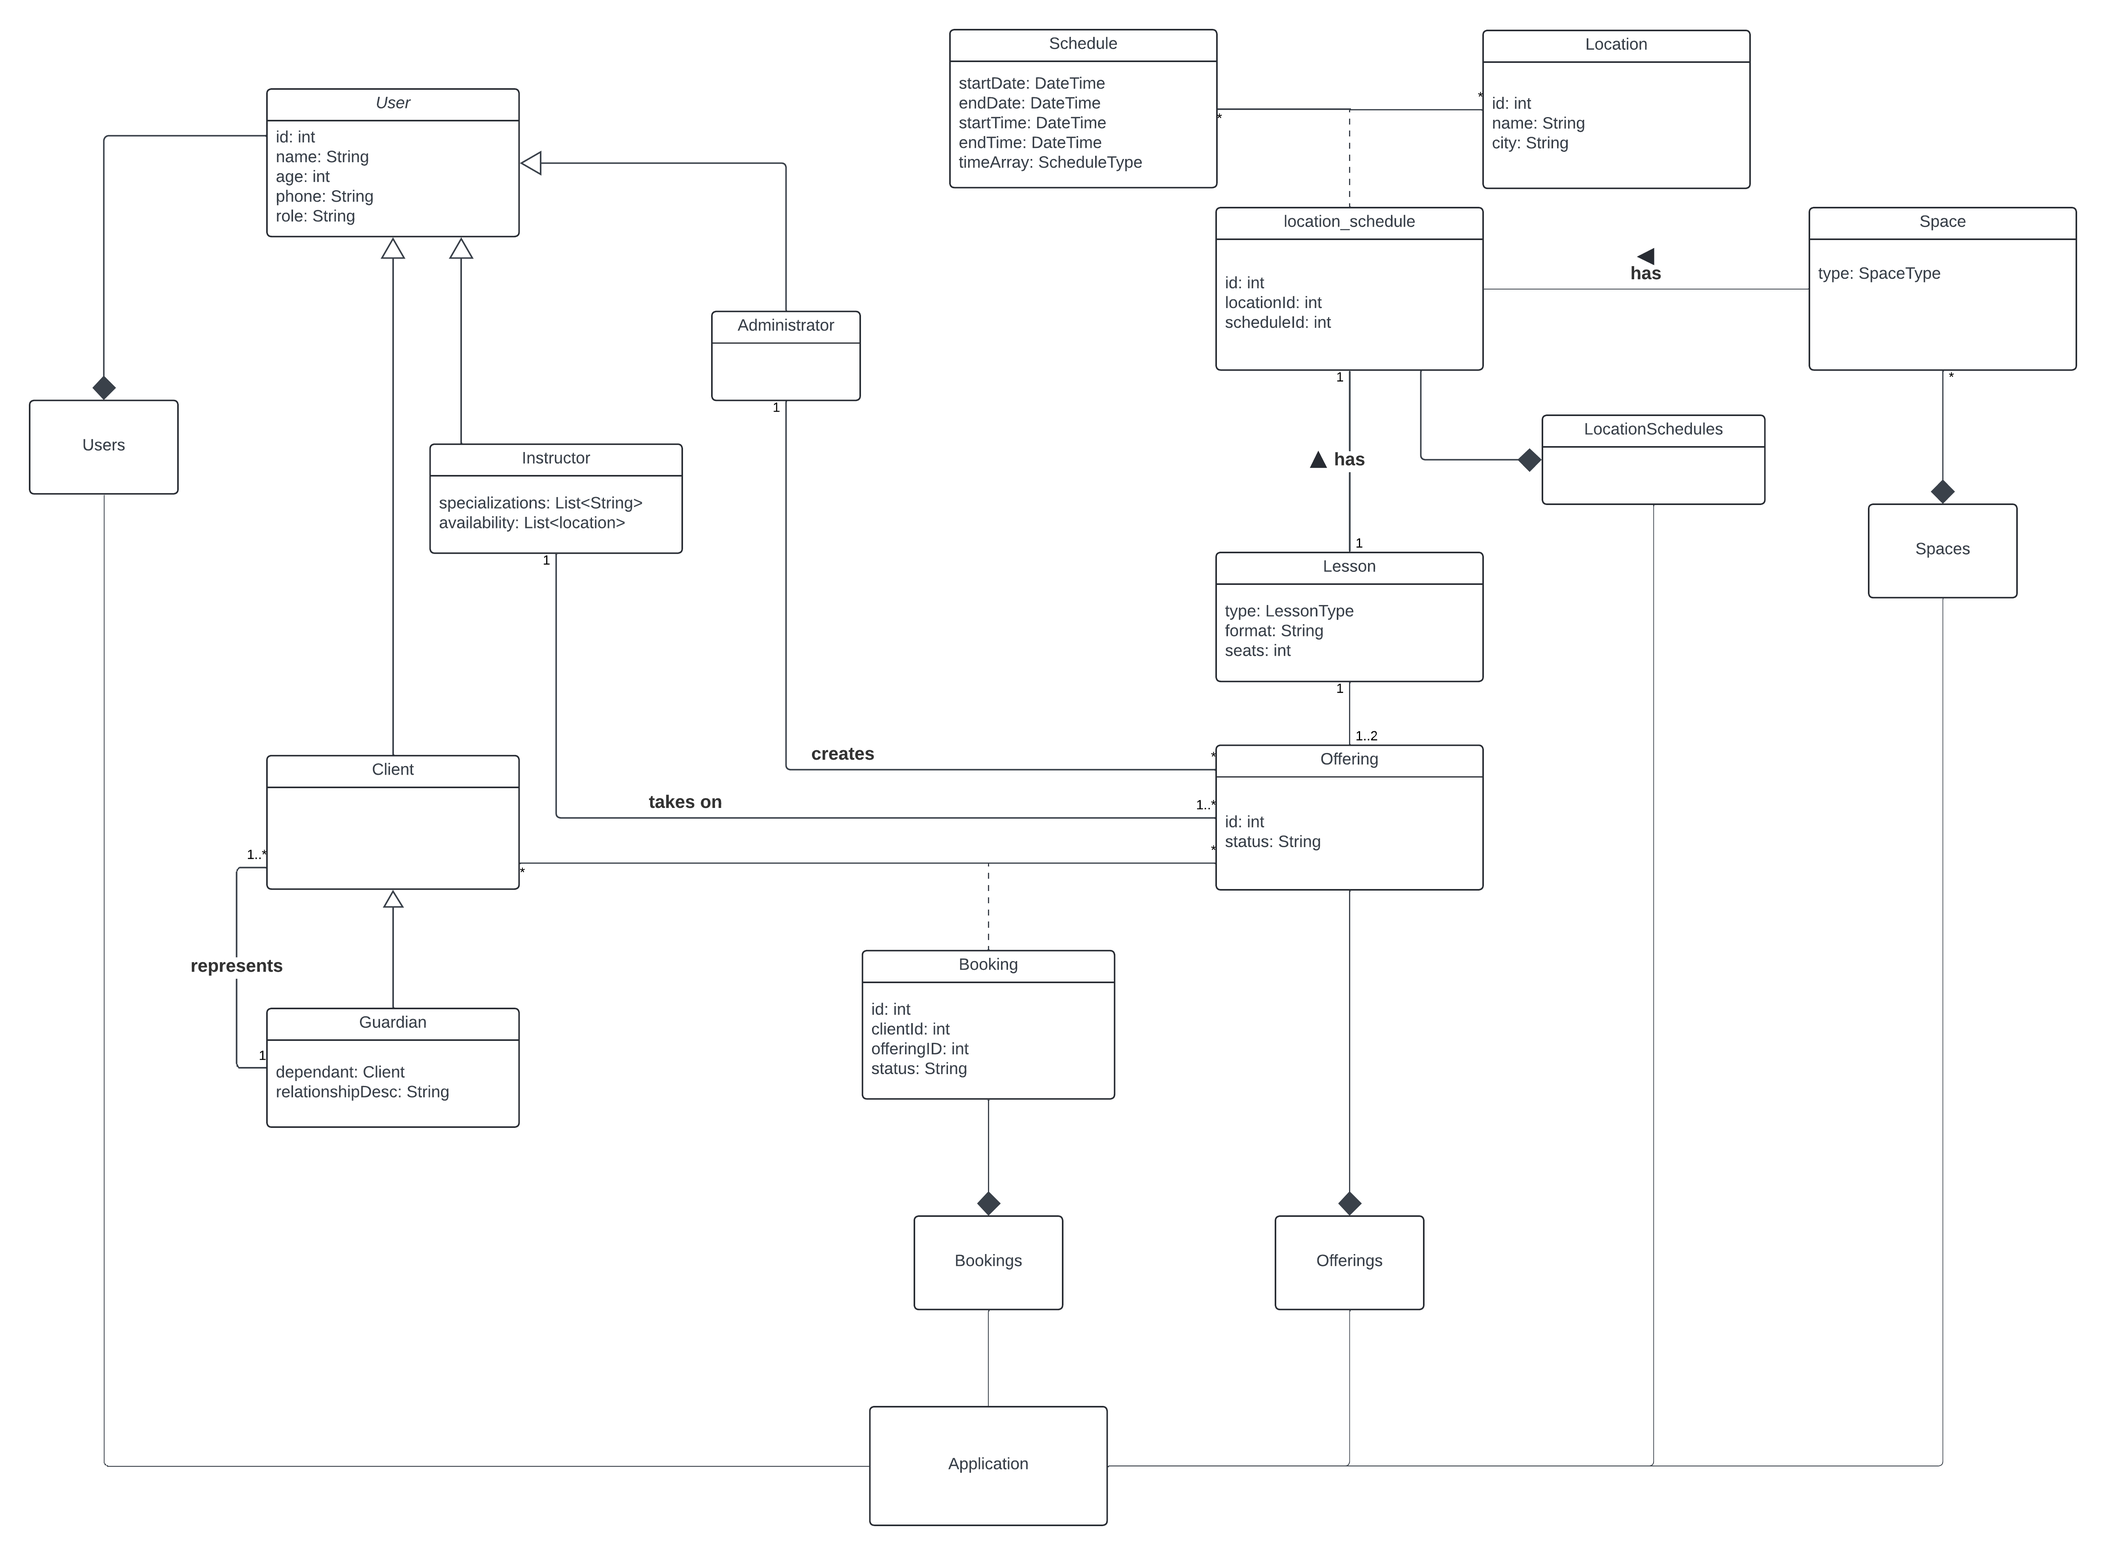
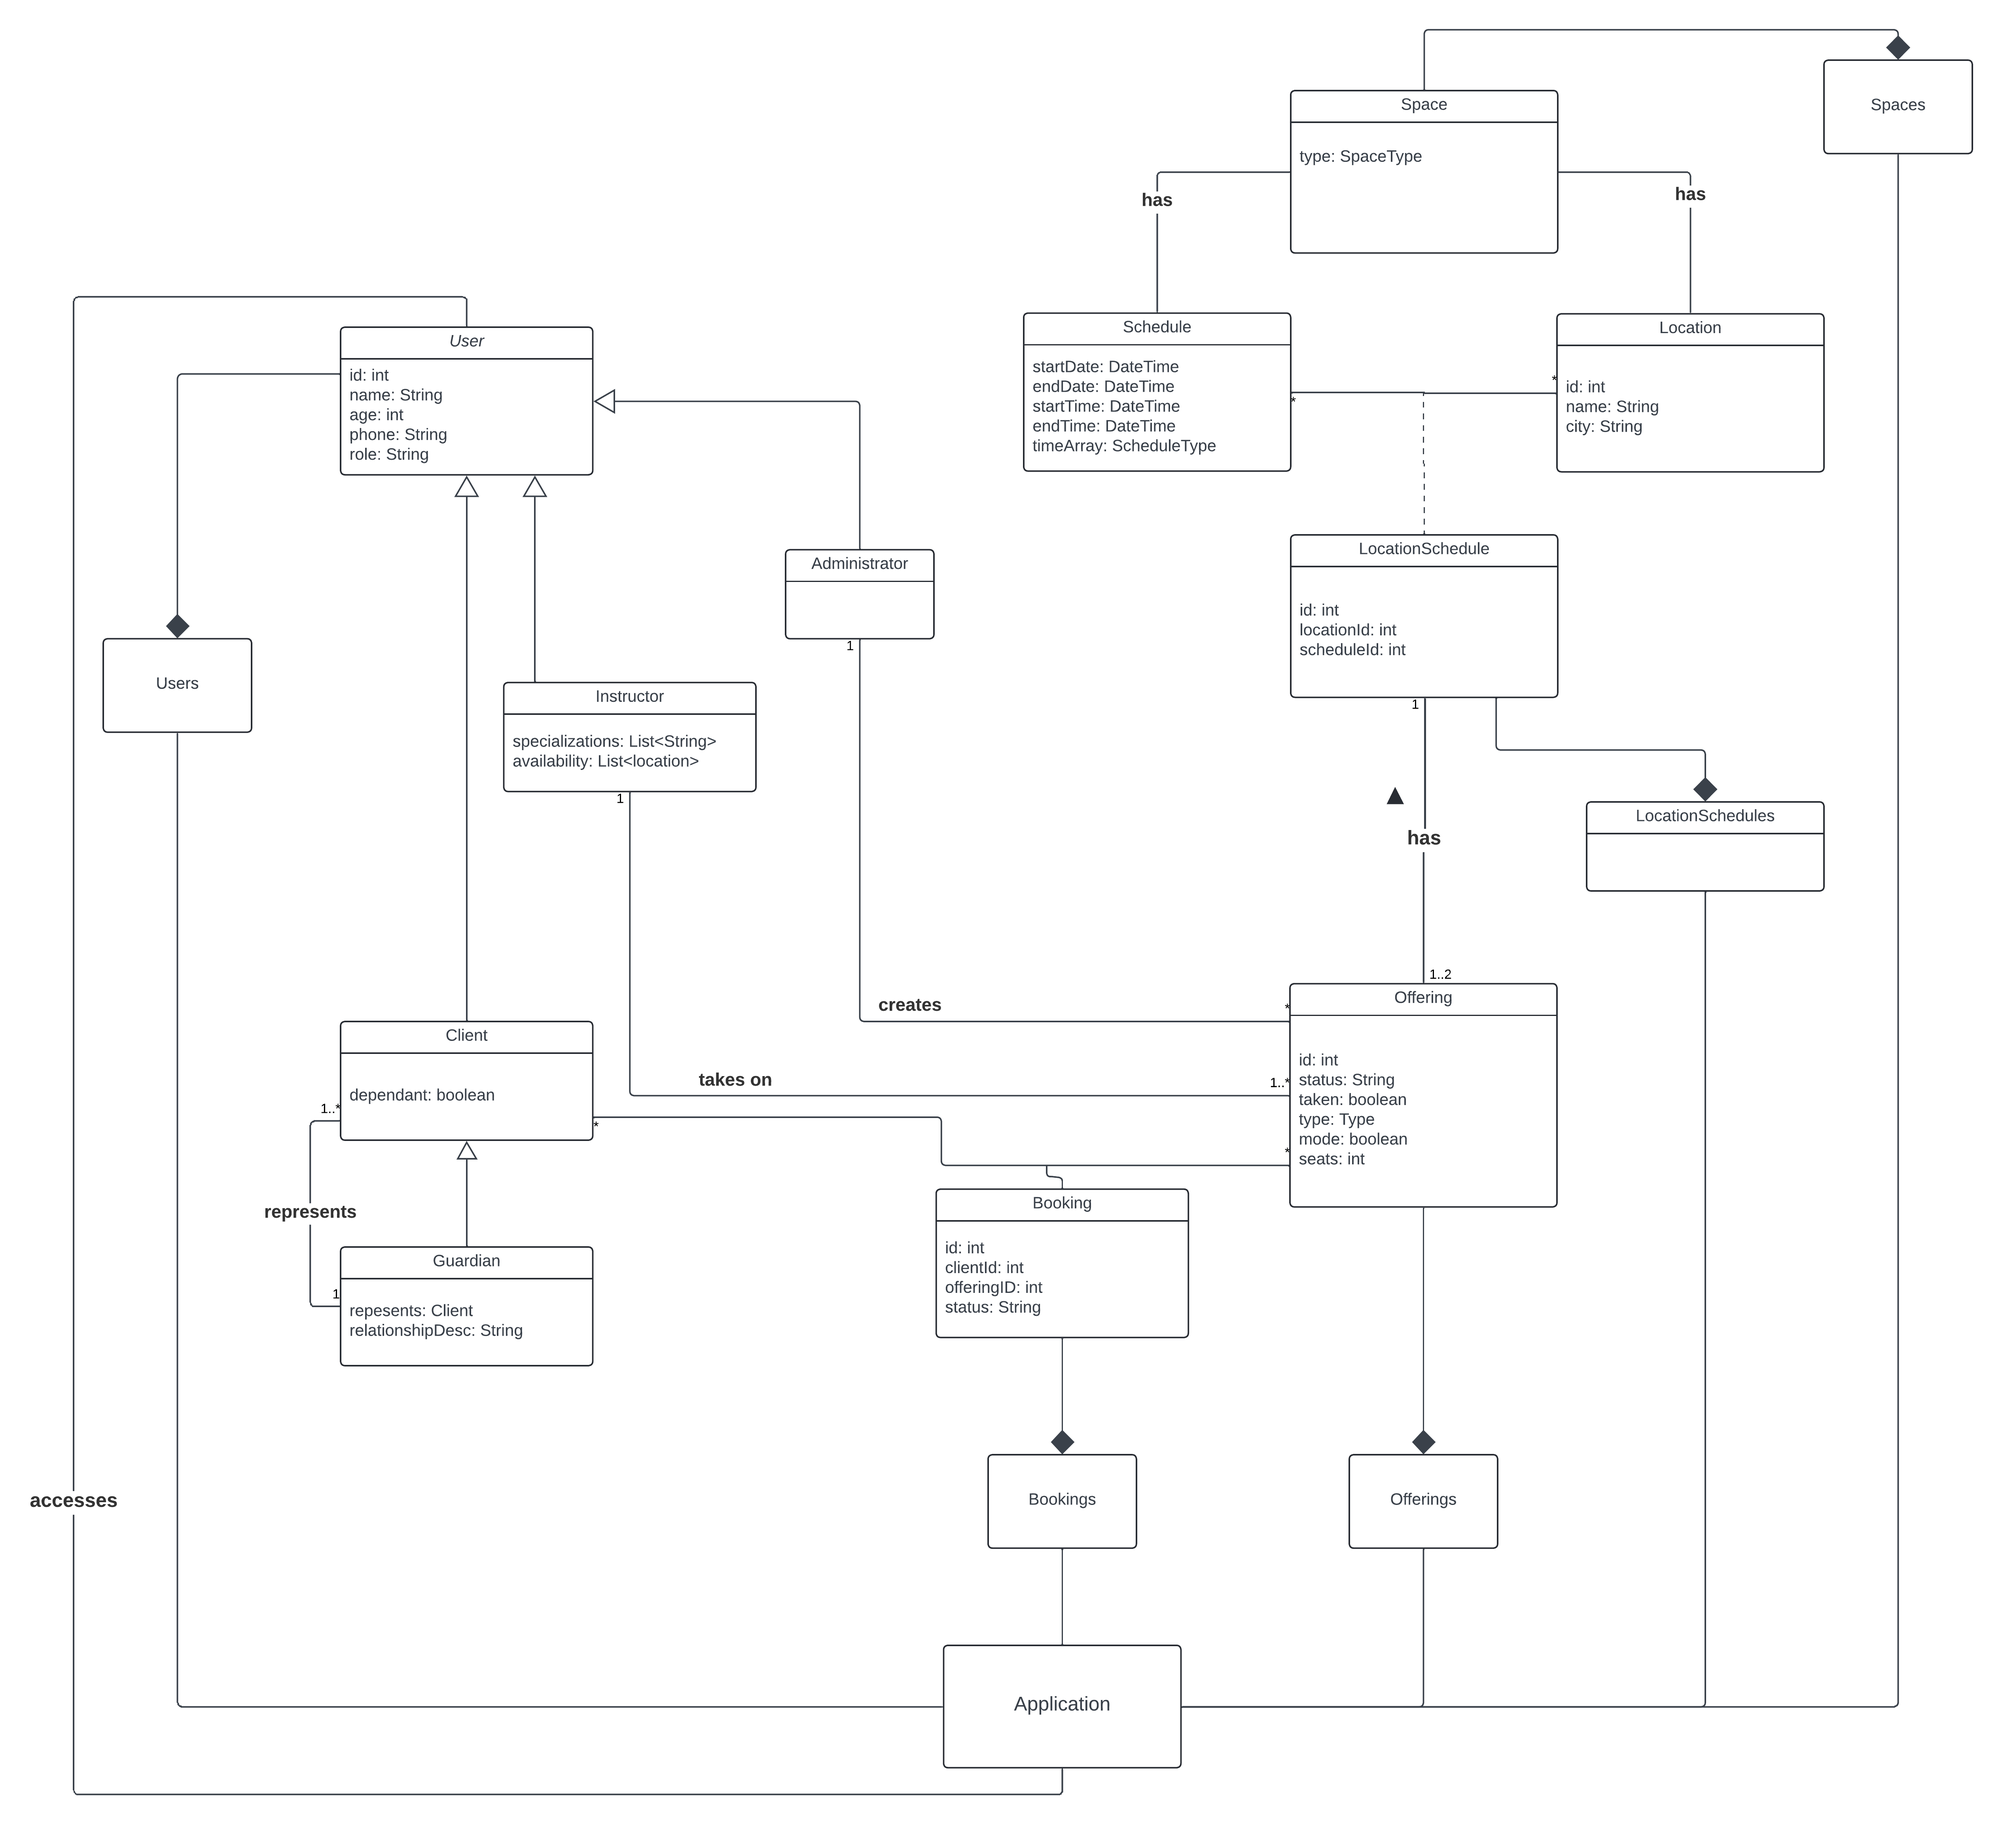
removing lesson class from design

diff --git a/deliverables/2024-10-18/class-diagram.md b/deliverables/2024-10-18/class-diagram.md
@@ -1,1 +1,1 @@
-![Class diagram](https://github.com/user-attachments/assets/72eb3bb3-be06-4aa1-ab89-6cde7d896592)
+![Class diagram](https://github.com/DarkMed15/soen342-teamproject/blob/main/deliverables/assets/class_diagram.png)
